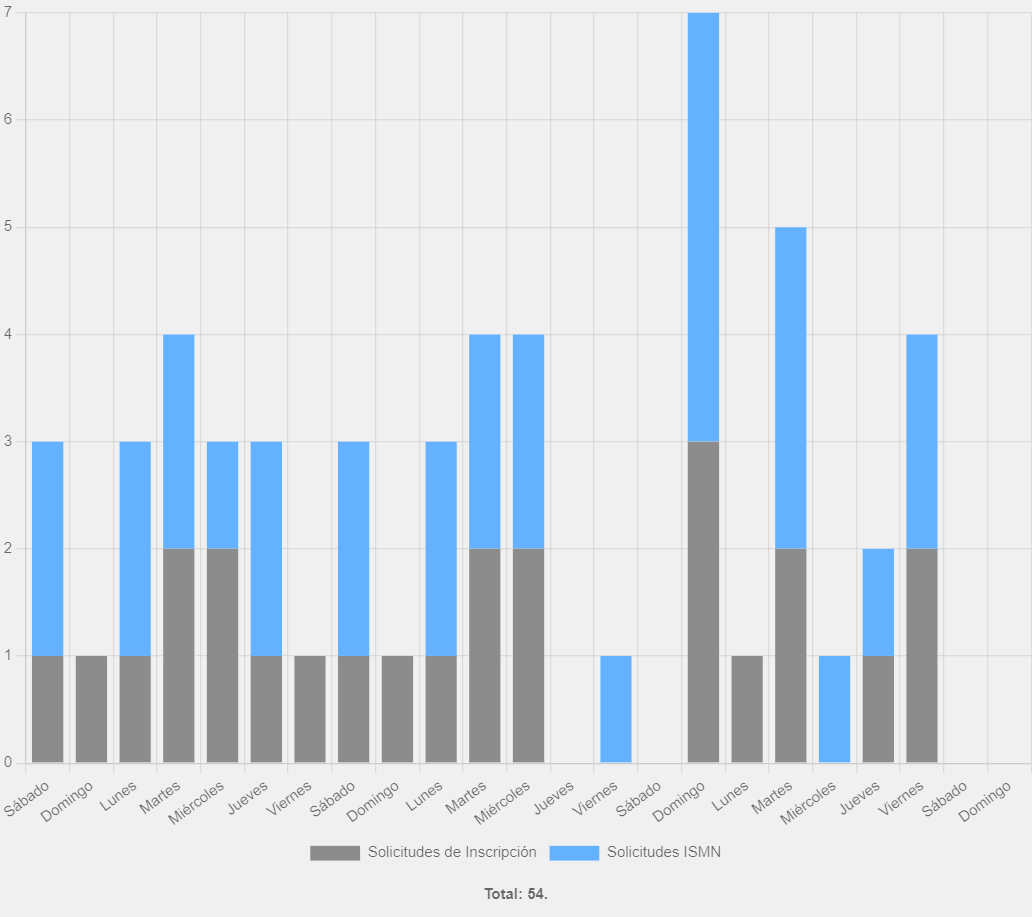
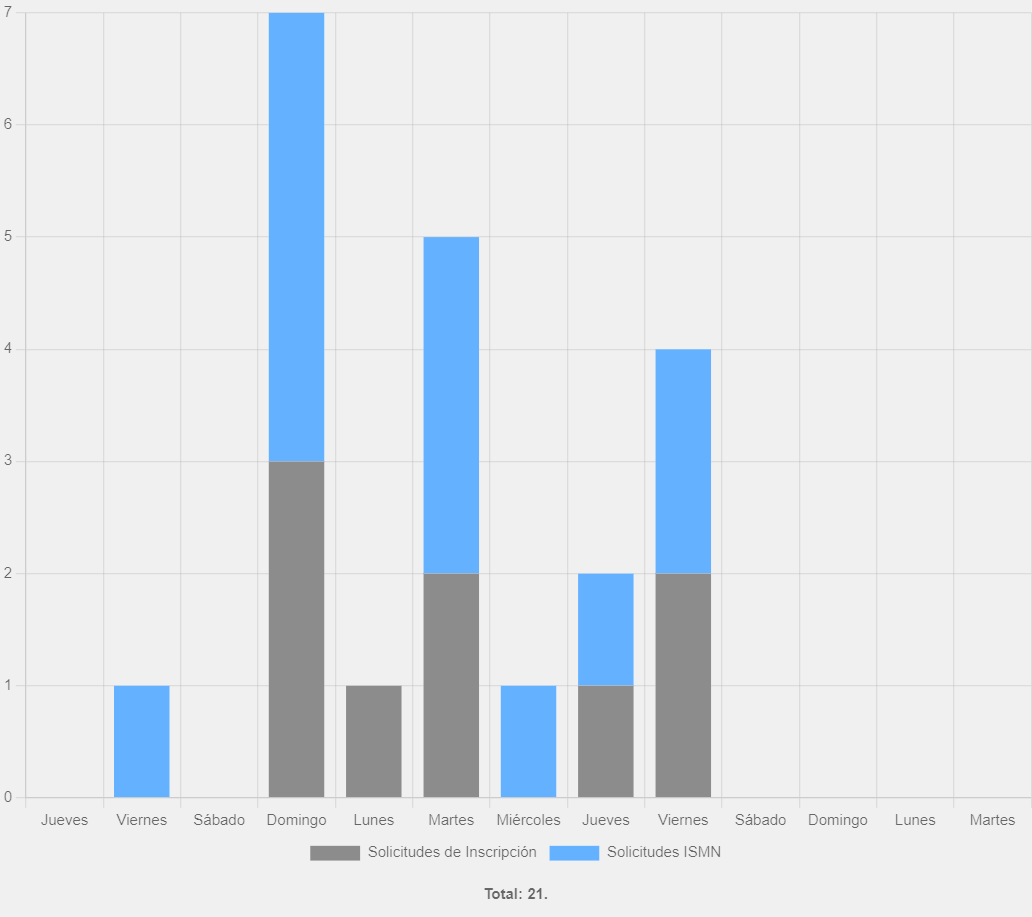
Terminado los reportes PDF de las estadísticas de solicitudes

Changed region(s): [[0.0, 0.0, 0.9922, 0.916]]

diff --git a/App/static/js/chart_utils.js b/App/static/js/chart_utils.js
@@ -20,6 +20,7 @@ const Meses_django = ['ene', 'feb', 'mar', 'abr', 'may', 'jun',
 let indiceMes = 11;
 let indiceLabel = 1;
 let indiceDataBarChart = 8;
+let barChart_total = 0;
 
 function sumaElementos(arreglo1, arreglo2) {
     let sumaTotal = 0;
@@ -89,7 +90,8 @@ function addDataBarChart(chart, inscrip_enviados, ismn_enviados){
         chart.data.datasets[0].data = newInscripData;
         chart.data.datasets[1].data = newISMNData;
         indiceDataBarChart++;
-        chart.options.plugins.title.text = `Total: ${sumaElementos(newInscripData, newISMNData)}.`;
+        barChart_total = sumaElementos(newInscripData, newISMNData)
+        chart.options.plugins.title.text = `Total: ${barChart_total}.`;
     }
     chart.update();
 }
@@ -102,8 +104,8 @@ function removeDataBarChart(chart){
         });
         indiceDataBarChart--;
         indiceLabel--;
-        let total = sumaElementos(chart.data.datasets[0].data, chart.data.datasets[1].data);
-        chart.options.plugins.title.text = `Total: ${total}.`;
+        barChart_total = sumaElementos(chart.data.datasets[0].data, chart.data.datasets[1].data);
+        chart.options.plugins.title.text = `Total: ${barChart_total}.`;
     }
     chart.update();
 }
@@ -122,7 +124,8 @@ function saveChart(){
             'Content-Type': 'application/json',
             'X-CSRFToken': csrftoken
         },
-        body: JSON.stringify({ image_data_lineChart: dataURL_lineChart,  image_data_barChart: dataURL_barChart}),
+        body: JSON.stringify({ image_data_lineChart: dataURL_lineChart, image_data_barChart: dataURL_barChart,
+                                    total_image_data_barChart: barChart_total}),
     }).then(response => {
         if (response.ok) {
             response.blob().then(blob => {

diff --git a/App/views.py b/App/views.py
@@ -1530,7 +1530,23 @@ def agregar_fondo_save(imagen_binaria, output_path):
     imagen_con_fondo_blanco.save(output_path)
 
 
-def crear_report_statistics(buffer, title):
+def conformar_tabla_reportlab_solicitudes_aceptadas(solicites):
+    data = [['FECHA', 'TIPO', 'CANTIDAD']]
+    total = 0
+
+    for fecha, tipos in solicites.items():
+        fecha_str = fecha.strftime('%d/%m')
+        for tipo, cantidad in tipos.items():
+            if tipo == 'Solicitud-ISMN':
+                data.append([fecha_str, tipo, cantidad])
+            else:
+                data.append(['-', tipo, cantidad])
+            total += cantidad
+    data.append(['', 'TOTAL', total])
+    return data
+
+
+def crear_report_statistics(buffer, title, total_solicitudes_enviadas, user):
     # Importar las fuentes externas
     pdfmetrics.registerFont(TTFont('RobotoCondensed-Bold', 'fonts/RobotoCondensed-Bold.ttf'))
     pdfmetrics.registerFont(TTFont('RobotoSlab', 'fonts/RobotoSlab-VariableFont_wght.ttf'))
@@ -1539,6 +1555,11 @@ def crear_report_statistics(buffer, title):
 
     PAGE_HEIGHT, PAGE_WIDTH = A4
     style_letra = ParagraphStyle(name='letra_style', rightIndent=25, fontName="Roboto")
+
+    # Datos para la tabla de reportlab
+    solicitudes_enviadas = dict(list(Solicitud.return_accepted().items())[-7:])
+
+    data = conformar_tabla_reportlab_solicitudes_aceptadas(solicitudes_enviadas)
 
     def myFirstPage(canvas, doc):
         canvas.saveState()
@@ -1592,21 +1613,21 @@ def crear_report_statistics(buffer, title):
         solicitudes_declined = canvas.beginText()
         solicitudes_declined_title = 'Solicitudes rechazadas.'
         origin_start = PAGE_WIDTH - 355
-        solicitudes_declined.setTextOrigin(origin_start, PAGE_HEIGHT - 333)
+        solicitudes_declined.setTextOrigin(origin_start, PAGE_HEIGHT - 330)
         solicitudes_declined.setFont('RobotoSlab', 20)
         solicitudes_declined.setFillColorRGB(0.21, 0.25, 0.33)
         solicitudes_declined.setCharSpace(0.4)
         solicitudes_declined.textLine(solicitudes_declined_title)
         canvas.drawText(solicitudes_declined)
         # Paragraph
-        style_description_chart1 = ParagraphStyle(name='description_style_chart1')
-        text_info = Paragraph(f'<font name="Roboto-Italic" size=15 color={colors.Color(0.49, 0.30, 0.34)}>'
+        style_description_chart1 = ParagraphStyle(name='description_style_chart1', leading=17)
+        text_info = Paragraph(f'<font name="Roboto-Italic" size=12 color={colors.Color(0.49, 0.30, 0.34)}>'
                               f'Esta gráfica muestra la cantidad de solicitudes<br/>'
                               f'rechazadas en los últimos meses según su tipo<br/>'
                               f'(ISMN ó Inscripción).</font>',
                               style_description_chart1)
         w, h = text_info.wrapOn(canvas, 300, 200)
-        text_info.drawOn(canvas, origin_start, PAGE_HEIGHT - h - 340)
+        text_info.drawOn(canvas, origin_start, PAGE_HEIGHT - h - 337)
         # Total
         solicitudes_declined_total = canvas.beginText()
         solicitudes_declined_total_title = f'Total: {Solicitud.return_deleted().count()}'
@@ -1630,27 +1651,107 @@ def crear_report_statistics(buffer, title):
         # Barra de encabezado
         canvas.setFillColorRGB(0.21, 0.25, 0.33)
         canvas.rect(0, PAGE_HEIGHT - 31, PAGE_WIDTH, PAGE_HEIGHT, stroke=0, fill=1)
-
-        # Imprimir el Logo de la empresa transparente
-        img_h = 440
-        img_w = 320
-        canvas.drawImage('media/logo_transparent.png', (PAGE_WIDTH - img_w) / 2, (PAGE_HEIGHT - img_h) / 2, img_w,
-                         img_h, mask='auto')
         # Raya separadora inicial
         w_rect = 740
         h_rect = 4
         canvas.setFillColorRGB(0.49, 0.30, 0.34)
         canvas.rect(PAGE_WIDTH - 790, PAGE_HEIGHT - 65, w_rect, h_rect, stroke=0, fill=1)
+        # Imprimir el CHART 2
+        im_width = 350
+        im_height = 300
+        im = Image('media/temp/barchart_solicitudes.png', width=im_width, height=im_height)
+        im.drawOn(canvas, PAGE_WIDTH - 790, (PAGE_HEIGHT - im_height)/2 + 50)
+        # Title Chart 2
+        solicitudes_enviadas = canvas.beginText()
+        solicitudes_enviadas_title = 'Solicitudes Enviadas.'
+        solicitudes_enviadas.setTextOrigin(inch, PAGE_HEIGHT - im_height - 120)
+        solicitudes_enviadas.setFont('RobotoSlab', 20)
+        solicitudes_enviadas.setFillColorRGB(0.21, 0.25, 0.33)
+        solicitudes_enviadas.setCharSpace(0.4)
+        solicitudes_enviadas.textLine(solicitudes_enviadas_title)
+        canvas.drawText(solicitudes_enviadas)
+        # Paragraph
+        style_description_chart1 = ParagraphStyle(name='description_style_chart1', leading=17)
+        text_info = Paragraph(f'<font name="Roboto-Italic" size=12 color={colors.Color(0.49, 0.30, 0.34)}>'
+                              f'Esta gráfica muestra la cantidad de solicitudes<br/>'
+                              f'enviadas en el último mes.</font>',
+                              style_description_chart1)
+        w, h = text_info.wrapOn(canvas, 300, 200)
+        text_info.drawOn(canvas, inch, PAGE_HEIGHT - im_height - h - 130)
+        # Total
+        solicitudes_declined_total = canvas.beginText()
+        solicitudes_declined_total_title = f'Total: {total_solicitudes_enviadas}'
+        solicitudes_declined_total.setTextOrigin(inch, PAGE_HEIGHT - im_height - h - 170)
+        solicitudes_declined_total.setFont('RobotoSlab', 20)
+        solicitudes_declined_total.setFillColorRGB(0.21, 0.25, 0.33)
+        solicitudes_declined_total.setCharSpace(0.4)
+        solicitudes_declined_total.textLine(solicitudes_declined_total_title)
+        canvas.drawText(solicitudes_declined_total)
+        # Table Solicitudes Aceptadas
+        table_style = TableStyle(
+            [('ALIGN', (0, 0), (-1, -1), 'CENTER'),
+             ('FONTNAME', (0, 0), (0, -1), 'RobotoCondensed-Bold'),
+             ('FONTNAME', (1, 0), (-1, 0), 'RobotoCondensed-Bold'),
+             ('FONTNAME', (1, 1), (-1, -1), 'Roboto'),
+             ('FONTNAME', (1, -1), (-1, -1), 'RobotoCondensed-Bold'),
+             ('TEXTCOLOR', (0, 0), (-1, -1), colors.Color(0.21, 0.25, 0.33)),
+             ('GRID', (0, 0), (-1, -1), 0.5, colors.Color(0, 0, 0, alpha=0.1)),
+             ]
+        )
+        table = Table(data, colWidths=[80, 140, 80], style=table_style)
+        w, h = table.wrapOn(canvas, 300, 800)
+        table.drawOn(canvas, PAGE_WIDTH + im_width - 770, (PAGE_HEIGHT-h)/2 + 52)
+        # Title Table Solicitudes Aceptadas
+        solicitudes_aceptadas = canvas.beginText()
+        solicitudes_aceptadas_title = 'Solicitudes Aceptadas.'
+        solicitudes_aceptadas.setTextOrigin(PAGE_WIDTH + im_width - 770, PAGE_HEIGHT - im_height - 120)
+        solicitudes_aceptadas.setFont('RobotoSlab', 20)
+        solicitudes_aceptadas.setFillColorRGB(0.21, 0.25, 0.33)
+        solicitudes_aceptadas.setCharSpace(0.4)
+        solicitudes_aceptadas.textLine(solicitudes_aceptadas_title)
+        canvas.drawText(solicitudes_aceptadas)
+        # Paragraph
+        style_description_chart1 = ParagraphStyle(name='description_style_chart1', leading=17)
+        text_info = Paragraph(f'<font name="Roboto-Italic" size=12 color={colors.Color(0.49, 0.30, 0.34)}>'
+                              f'Esta tabla muestra la cantidad de solicitudes<br/>'
+                              f'aceptadas en la última semana.</font>',
+                              style_description_chart1)
+        w, h = text_info.wrapOn(canvas, 300, 200)
+        text_info.drawOn(canvas, PAGE_WIDTH + im_width - 770, PAGE_HEIGHT - im_height - h - 130)
+        # Tabla de Reportado por:
+        # Datos
+        if user.especialista:
+            departamento = 'Informatica - CCL'
+        else:
+            departamento = '-'
+        data_table_report_by = [
+            ['REPORTADO POR:', ''],
+            ['Nombre:', user.first_name],
+            ['Fecha:', datetime.today().date()],
+            ['Departamento:', departamento]
+        ]
+        report_by_style = TableStyle(
+            [('ALIGN', (0, 0), (-1, -1), 'LEFT'),
+             ('ALIGN', (1, 0), (1, -1), 'CENTER'),
+             ('FONTNAME', (0, 0), (0, -1), 'RobotoCondensed-Bold'),
+             ('FONTNAME', (1, 0), (1, -1), 'Roboto'),
+             ('TEXTCOLOR', (0, 0), (-1, -1), colors.Color(0.21, 0.25, 0.33)),
+             ('BOX', (0, 0), (-1, -1), 1, colors.Color(0.49, 0.30, 0.34))]
+        )
+        table_report_by = Table(data_table_report_by, colWidths=[100, 140], style=report_by_style)
+        w, h = table_report_by.wrapOn(canvas, 400, 200)
+        table_report_by.drawOn(canvas, PAGE_WIDTH - w - 60, PAGE_HEIGHT - im_height - h - 195)
+
         # Numeracion de Paginas
         page_number = canvas.beginText()
-        page_number.setTextOrigin(inch, 0.90 * inch)
+        page_number.setTextOrigin(inch, PAGE_HEIGHT - 560)
         page_number.setFont('RobotoSlab', 10)
         page_number.setFillColorRGB(0.49, 0.30, 0.34)
         page_number.textLine("Página %s" % doc.page)
         canvas.drawText(page_number)
         # Raya separadora final
         canvas.setFillColorRGB(0.49, 0.30, 0.34)
-        canvas.rect(PAGE_WIDTH - 790, PAGE_HEIGHT - 550, w_rect, h_rect, stroke=0, fill=1)
+        canvas.rect(PAGE_WIDTH - 790, PAGE_HEIGHT - 580, w_rect, h_rect, stroke=0, fill=1)
         canvas.restoreState()
 
     def build_doc(pbuffer):
@@ -1658,7 +1759,8 @@ def crear_report_statistics(buffer, title):
         doc = SimpleDocTemplate(pbuffer, pagesize=landscape(A4))
         story = [Spacer(PAGE_WIDTH - 545, PAGE_HEIGHT - 400)]
         # ====--- Content ----====
-        story.append(Image('media/temp/barchart_solicitudes.png', width=350, height=300))
+        story.append(PageBreak())
+        story.append(Spacer(PAGE_WIDTH - 545, PAGE_HEIGHT - 400))
         doc.build(story, onFirstPage=myFirstPage, onLaterPages=myLaterPage)
 
     build_doc(buffer)
@@ -1687,7 +1789,9 @@ def export_statistics_solicitud(request):
 
         buffer = io.BytesIO()
         # Contenido del reporte
-        crear_report_statistics(buffer, 'Solicitudes')
+        data = json.loads(request.body)
+        total_solicitudes_enviadas = data.get('total_image_data_barChart')
+        crear_report_statistics(buffer, 'Solicitudes', total_solicitudes_enviadas, request.user)
         buffer.seek(0)
         return FileResponse(buffer, as_attachment=True, filename=f"Solicitud_estadisticas.pdf")
 
